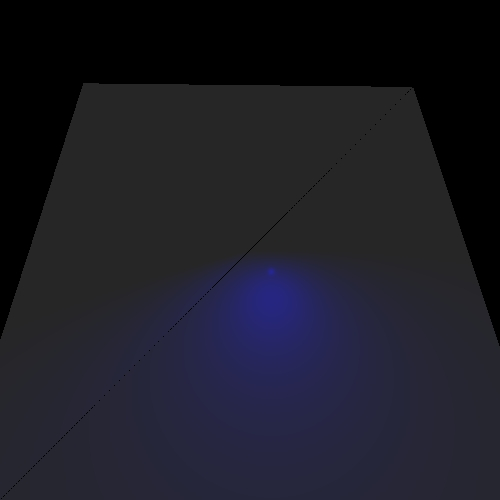
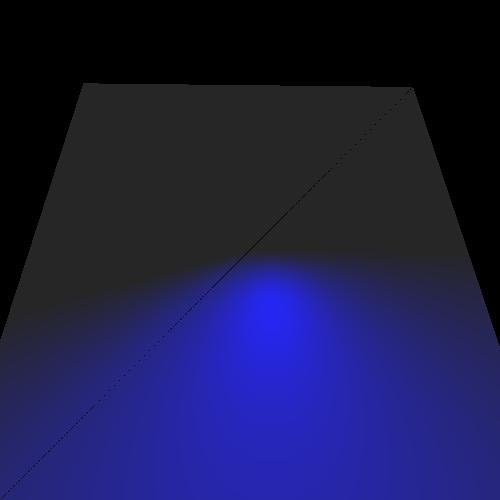
i did all finshed the unsheded func and refactor the findIntersection func

diff --git a/IME5780-E1-5840-6639/src/renderer/Render.java b/IME5780-E1-5840-6639/src/renderer/Render.java
@@ -2,13 +2,11 @@ package renderer;
 import elements.*;
 import geometries.Intersectable;
 import geometries.Intersectable.GeoPoint;
-import primitives.Color;
-import primitives.Ray;
-import primitives.Vector;
+import primitives.*;
 import scene.*;
-import primitives.Point3D;
 
 import java.util.List;
+import java.util.logging.Level;
 
 import static primitives.Util.alignZero;
 
@@ -16,6 +14,9 @@ public class Render {
     ImageWriter imageWriter;
     Scene scene;
     private static final double DELTA = 0.1;
+    private static final int MAX_CALC_COLOR_LEVEL = 10;
+    private static final double MIN_CALC_COLOR_K = 0.001;
+
 
     /**
      * constructor
@@ -43,12 +44,11 @@ public class Render {
         for (int i = 0; i <nY ; i++) {
             for (int j = 0; j <nX ; j++) {
                 Ray ray=camera.constructRayThroughPixel(nX,nY,j,i,distance,width,height);
-                List<GeoPoint> intersectionPoints = geometries.findIntersections(ray);
-                if (intersectionPoints == null)
+                GeoPoint closestPoint = findClosestIntersection(ray);
+                if (closestPoint == null)
                     imageWriter.writePixel(j, i, background);
                 else {
-                    GeoPoint closestPoint = getClosestPoint(intersectionPoints);
-                    imageWriter.writePixel(j, i, calcColor(closestPoint).getColor());
+                    imageWriter.writePixel(j, i, calcColor(closestPoint,ray).getColor());
                 }
             }
         }
@@ -60,9 +60,11 @@ public class Render {
      * @param intersection
      * @return
      */
-    private Color calcColor(GeoPoint intersection) {
-        Color color = scene.getAmbientLight().getIntensity();
-        color = color.add(intersection.geometry.get_emmission());
+    private Color calcColor(GeoPoint intersection,Ray inRay,int level,double k) {
+        if(level==0)
+            return Color.BLACK;
+
+        Color color=intersection.geometry.get_emmission();
         Vector v = intersection.point.subtract(scene.getCamera().getLocation()).normalize();
         Vector n = intersection.geometry.getNormal(intersection.point);
         int nShininess = intersection.geometry.get_matirial().getnShininess();
@@ -80,7 +82,26 @@ public class Render {
                 }
             }
         }
+        double kr=intersection.geometry.get_matirial().getKr(), kkr=k*kr;
+        if(kkr>MIN_CALC_COLOR_K) {
+            Ray reflectedRay = constractReflectedRay(n, intersection.point, inRay);
+            GeoPoint reflectedPoint = findClosestIntersection(reflectedRay);
+            if(reflectedPoint!=null)
+                color=color.add(calcColor(reflectedPoint,reflectedRay,level-1,kkr).scale(kr));
+        }
+        double kt=intersection.geometry.get_matirial().getKt(), kkt=k*kt;
+        if(kkr>MIN_CALC_COLOR_K) {
+            Ray refrectedRay = constractRefrectedRay(intersection.point, inRay);
+            GeoPoint refrectedPoint = findClosestIntersection(refrectedRay);
+            if(refrectedPoint!=null)
+                color=color.add(calcColor(refrectedPoint,refrectedRay,level-1,kkt).scale(kt));
+        }
+
         return color;
+    }
+    private Color calcColor(GeoPoint intersection,Ray ray){
+        return calcColor(findClosestIntersection(ray),ray,MAX_CALC_COLOR_LEVEL,1.0).add(
+                scene.getAmbientLight().getIntensity());
     }
 
     private Color calcDiffusive(double kd, double nl, Color ip) {
@@ -91,25 +112,7 @@ public class Render {
         Vector r=l.substract(n.scale(2).scale(l.dotProduct(n)));
         return lightIntensity.scale(ks*Math.pow(Math.max(0,-1*v.dotProduct(r)),nShininess));
     }
-    /**
-     * calc closest point
-     * @param geoPointsList
-     * @return
-     */
 
-    public GeoPoint getClosestPoint(List<GeoPoint> geoPointsList){
-        GeoPoint closesPoint=null;
-        Point3D cameraLocation=scene.getCamera().getLocation();
-        double closesDistance=Double.MAX_VALUE;
-        for (var geoPoint:geoPointsList) {
-            double distance=geoPoint.point.distance(cameraLocation);
-            if (distance < closesDistance){
-                closesDistance = distance;
-                closesPoint = geoPoint;
-            }
-        }
-        return closesPoint;
-    }
 
     /**
      * print grid
@@ -139,6 +142,40 @@ public class Render {
         Point3D point = geoPoint.point.add(DeltaVector);
         Ray lightRay = new Ray(lightDirection,point);
         List<GeoPoint> intersections = scene.getGeometries().findIntersections(lightRay,light.getDistance(geoPoint.point));
-        return intersections ==null;
+        double shdow=1;
+        if(intersections==null)
+            return true;
+        for(var intersection : intersections){
+            //shdow*=intersection.geometry.get_matirial().getKt();
+            if (intersection.geometry.get_matirial().getKt()==0)
+                return false;
+        }
+        return true;
+    }
+    private Ray constractReflectedRay(Vector n,Point3D point,Ray inRay){
+        return new Ray(inRay.getDirection().substract(n.scale(2*inRay.getDirection().dotProduct(n))),point);
+    }
+    private Ray constractRefrectedRay(Point3D point,Ray inRay) {
+        return new Ray(inRay.getDirection(),point);
+    }
+    private GeoPoint findClosestIntersection(Ray ray){
+        if(ray == null)
+            return null;
+
+        GeoPoint closesPoint=null;
+        double colsesDistance=Double.MAX_VALUE;
+        Point3D ray_p0=ray.getPoint();
+        List <GeoPoint> intersections=scene.getGeometries().findIntersections(ray);
+        if(intersections == null)
+            return null;
+
+        for (var geoPoint:intersections) {
+            double distance=ray_p0.distance(geoPoint.point);
+            if (distance < colsesDistance){
+                colsesDistance = distance;
+                closesPoint = geoPoint;
+            }
+        }
+        return closesPoint;
     }
 }

diff --git a/IME5780-E1-5840-6639/src/primitives/Material.java b/IME5780-E1-5840-6639/src/primitives/Material.java
@@ -3,6 +3,8 @@ package primitives;
 public class Material {
     double Kd;
     double Ks;
+    double Kt;
+    double Kr;
     int nShininess;
 
     /**
@@ -12,8 +14,14 @@ public class Material {
      * @param nShininess
      */
     public Material(double kd, double ks, int nShininess) {
+       this(kd,ks,nShininess,0,0);
+    }
+
+    public Material(double kd, double ks, double kt, double kr, int nShininess) {
         Kd = kd;
         Ks = ks;
+        Kt = kt;
+        Kr = kr;
         this.nShininess = nShininess;
     }
 
@@ -29,5 +37,13 @@ public class Material {
 
     public int getnShininess() {
         return nShininess;
+    }
+
+    public double getKt() {
+        return Kt;
+    }
+
+    public double getKr() {
+        return Kr;
     }
 }

diff --git a/IME5780-E1-5840-6639/src/unittests/ShadowTests.java b/IME5780-E1-5840-6639/src/unittests/ShadowTests.java
@@ -55,7 +55,7 @@ public class ShadowTests {
         scene.addGeometries(new Sphere(new Color(java.awt.Color.BLUE), new Material(0.5, 0.5, 30), //
                         60, new Point3D(0, 0, 200)), //
                 new Triangle(new Color(java.awt.Color.BLUE), new Material(0.5, 0.5, 30), //
-                        new Point3D(-70, 40, 0), new Point3D(-40, 70, 0), new Point3D(-68, 68, 4)));
+                        new Point3D(-65, 35, 0), new Point3D(-35, 65, 0), new Point3D(-63, 63, 4)));
 
         scene.addLights(new SpotLight(new Color(400, 240, 0), //
                 new Point3D(-100, 100, -200), new Vector(1, -1, 3), 1, 1E-5, 1.5E-7));
